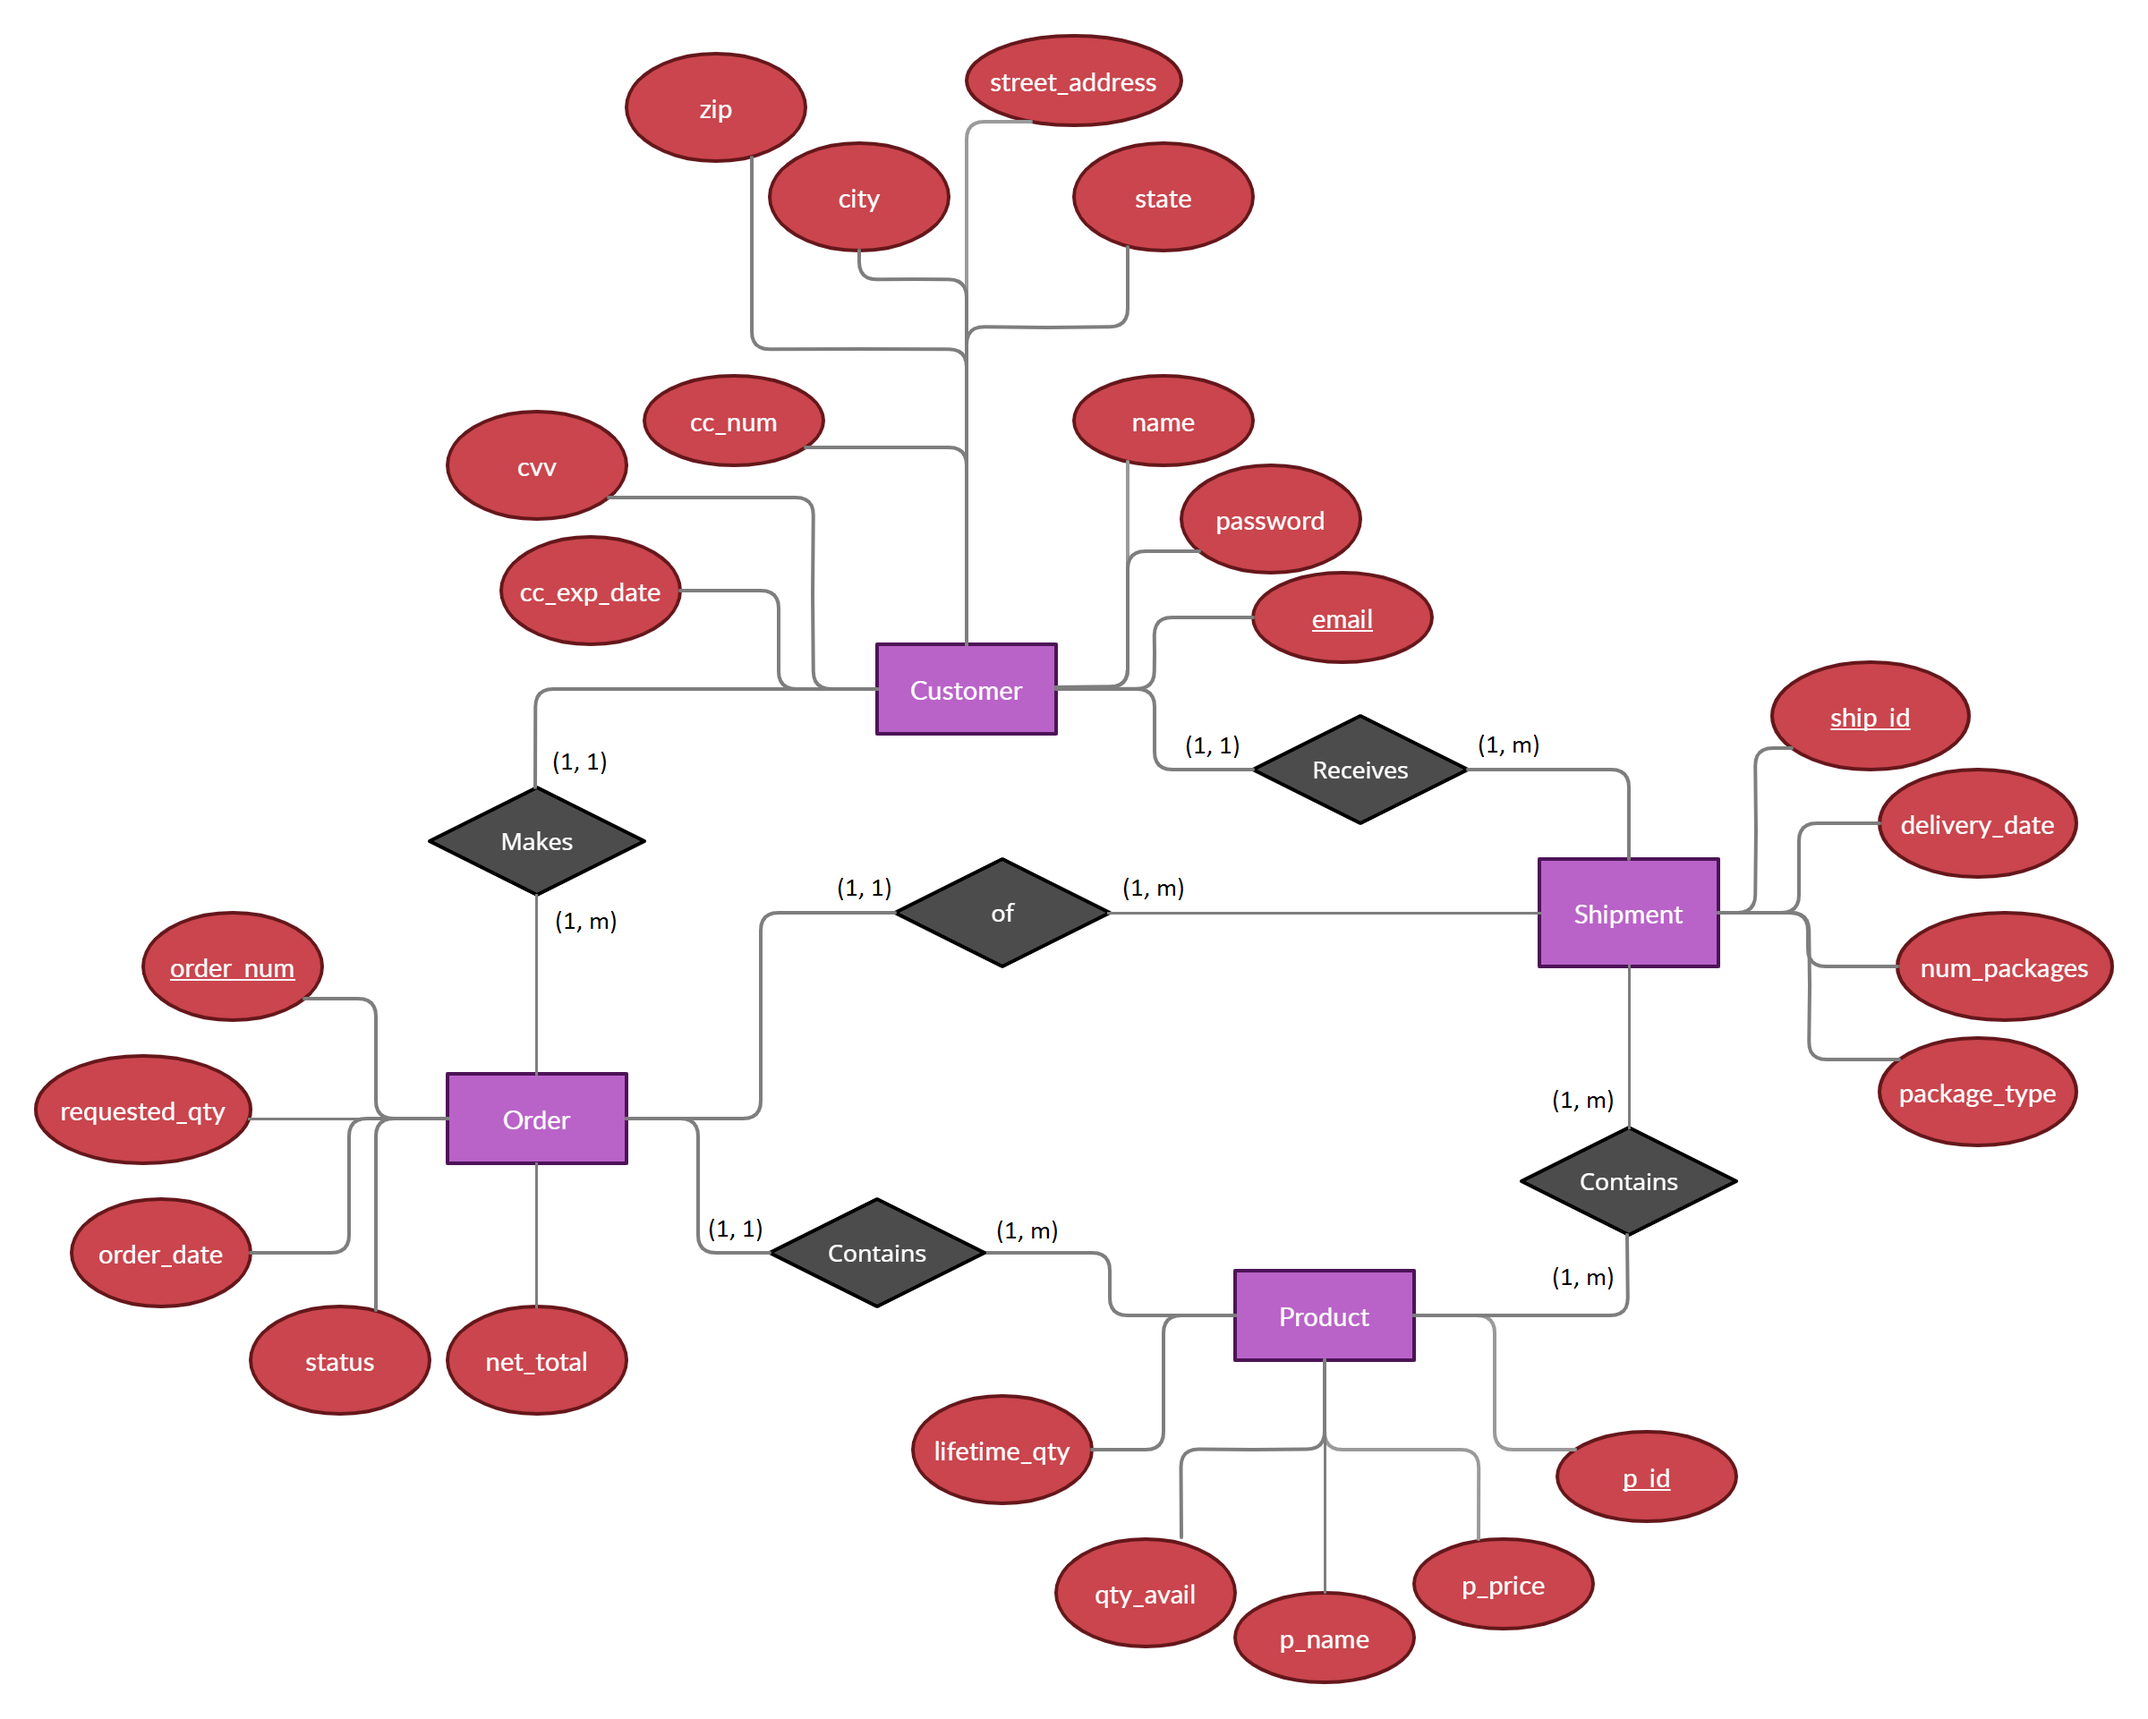
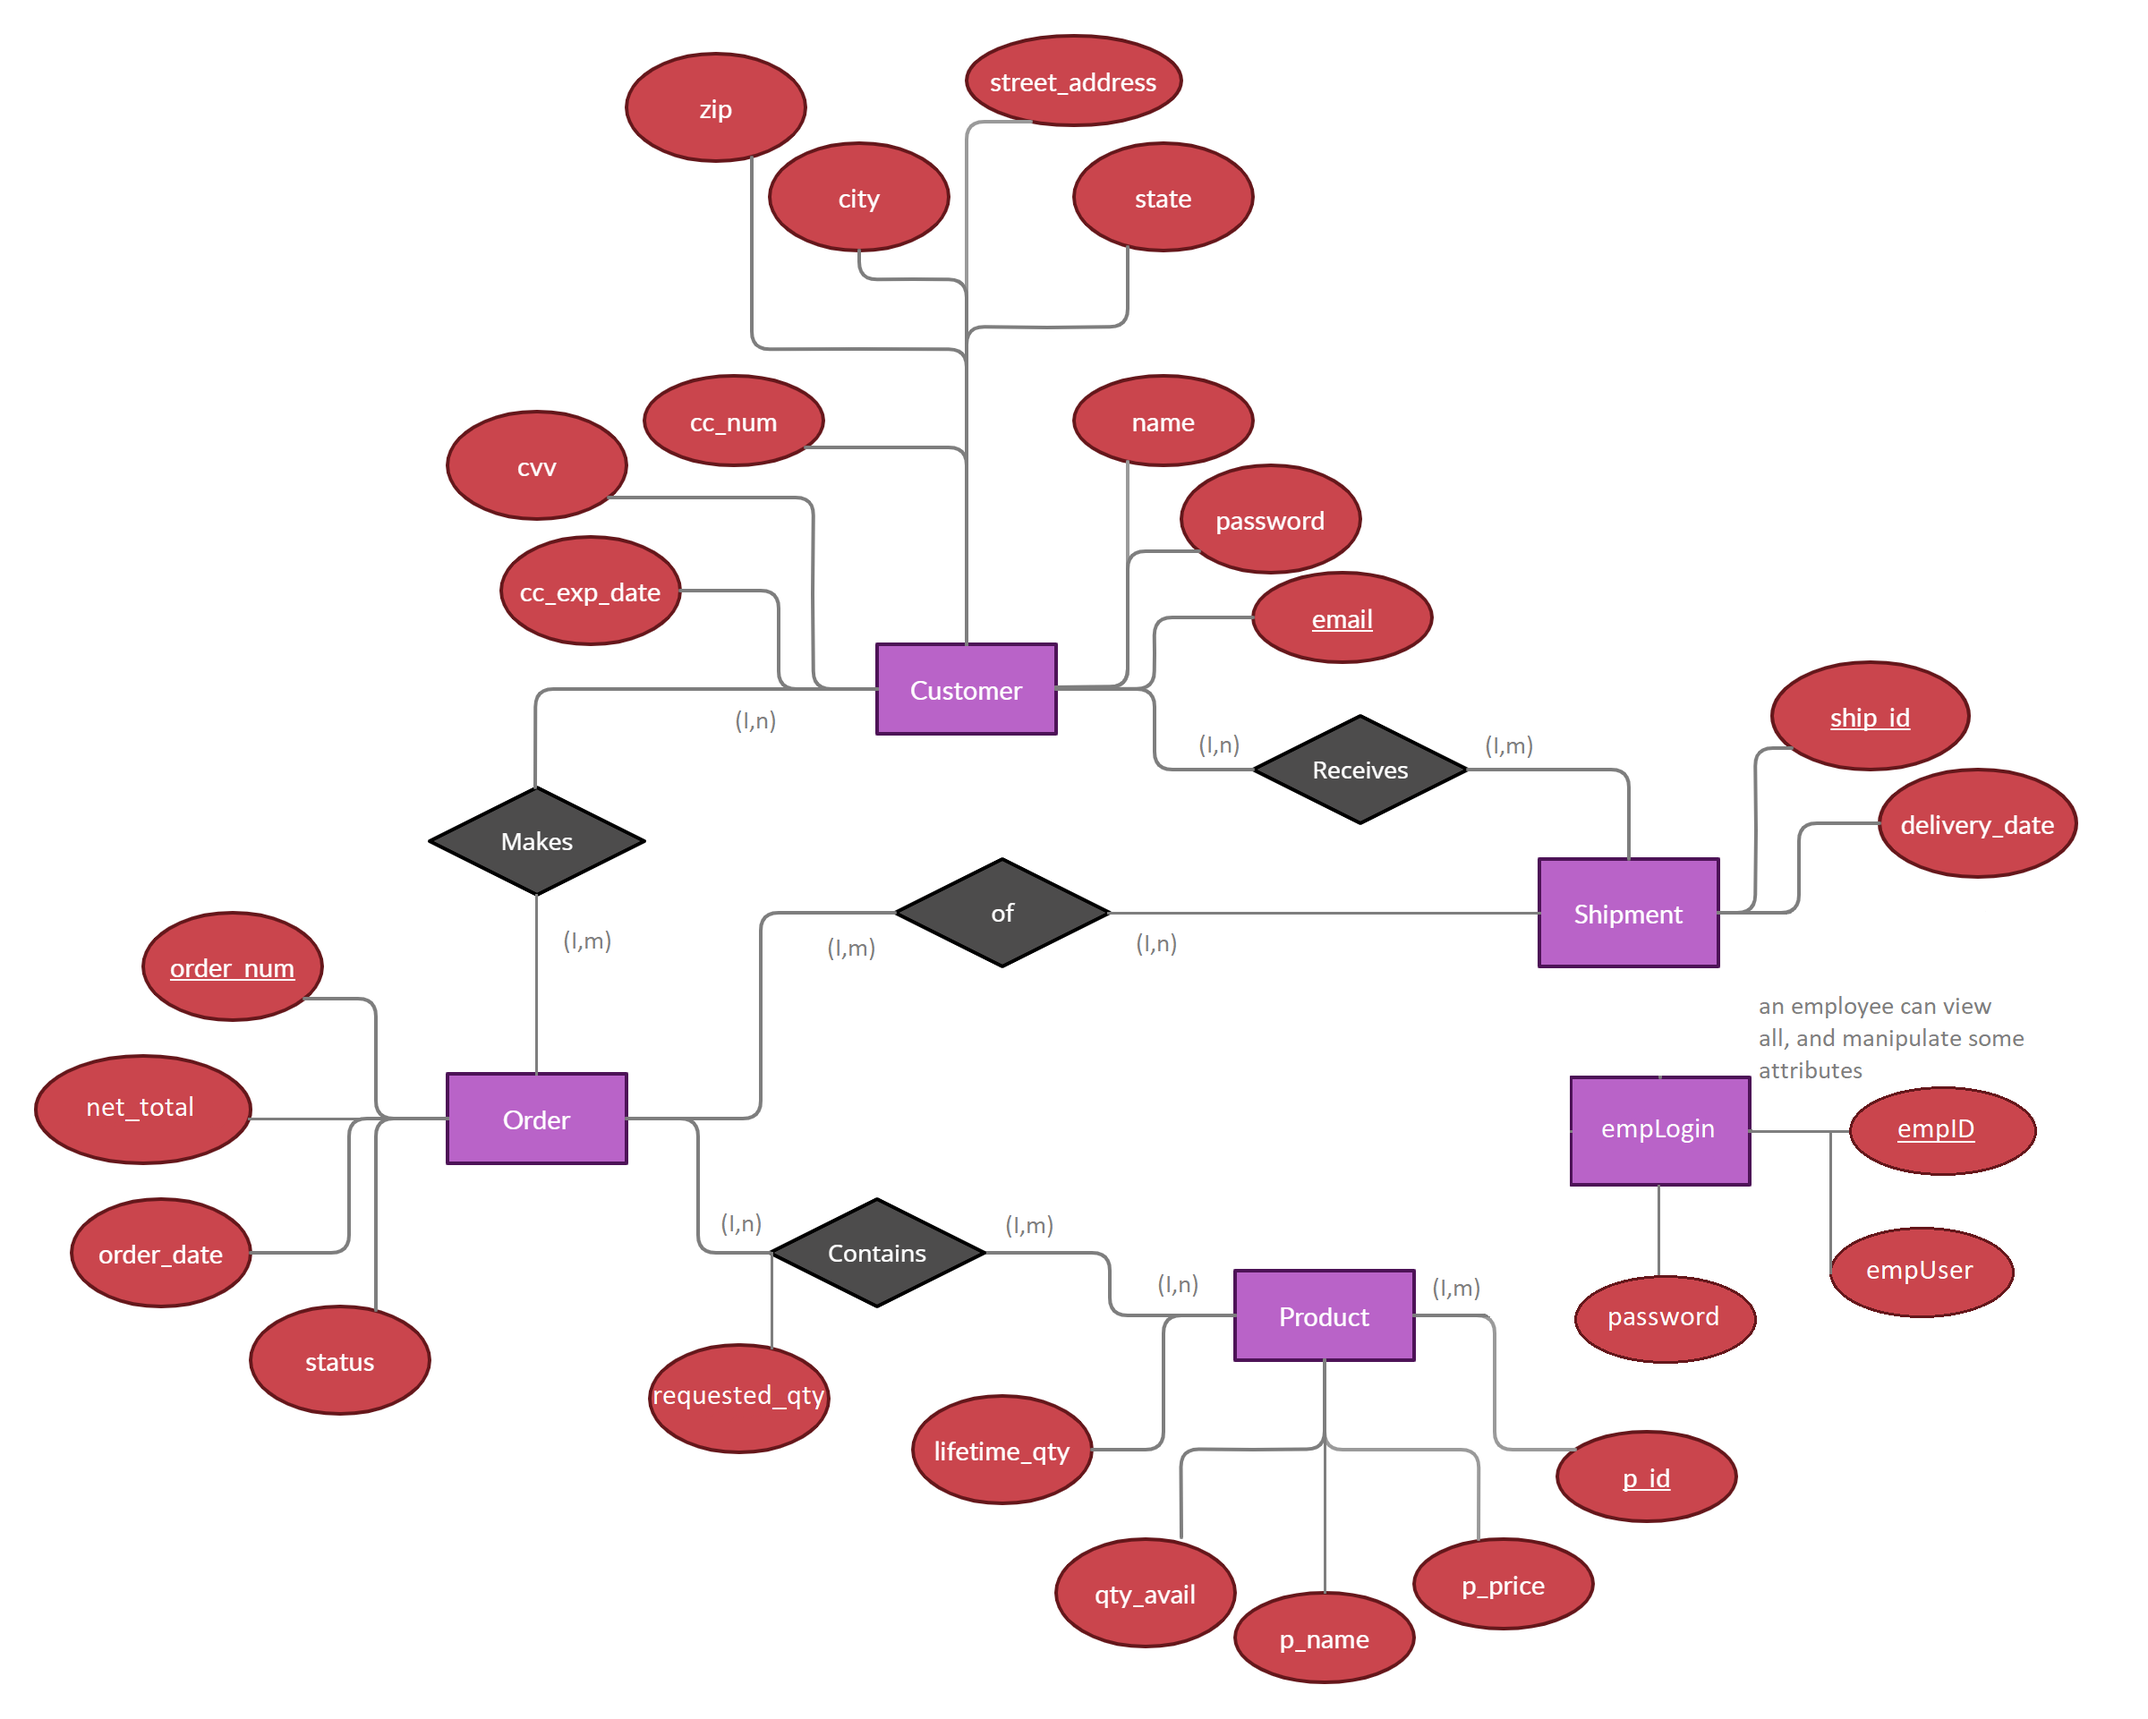
more functionality, along with order tracking

diff --git a/functions.php b/functions.php
@@ -1,28 +1,50 @@
 <?php
 function make_table($rows)
-    {
-        if (!empty($rows)) {
-            echo "<table border=1>";
+{
+    if (!empty($rows)) {
+        echo "<table border=1>";
+        echo "<tr>";
+        foreach ($rows[0] as $key => $value) {
+            if ($key == "P_Name") {
+                echo "<th>Product</th>";
+            }
+            else {
+                echo "<th>Price</th>";
+            }
+        }
+        echo "</tr>";
+        foreach ($rows as $row) {
             echo "<tr>";
-            foreach ($rows[0] as $key => $value) {
-                if ($key == "P_Name") {
-                    echo "<th>Product</th>";
-                }
-                else {
-                    echo "<th>Price</th>";
-                }
+            foreach ($row as $item) {
+                echo "<td>$item</td>";
             }
             echo "</tr>";
-            foreach ($rows as $row) {
-                echo "<tr>";
-                foreach ($row as $item) {
-                    echo "<td>$item</td>";
-                }
-                echo "</tr>";
-            }
-            echo "</table>";
-        } else {
-            echo "<br>Empty table";
         }
+        echo "</table>";
+    } else {
+        echo "<br>Empty table";
     }
+}
+
+function reg_table($rows)
+{
+    if (!empty($rows)) {
+        echo "<table border=1>";
+        echo "<tr>";
+        foreach ($rows[0] as $key => $value) {
+            echo "<th>$key</th>";
+        }
+        echo "</tr>";
+        foreach ($rows as $row) {
+            echo "<tr>";
+            foreach ($row as $item) {
+                echo "<td>$item</td>";
+            }
+            echo "</tr>";
+        }
+        echo "</table>";
+    } else {
+        echo "<br>Empty...";
+    }
+}
 ?>

diff --git a/order.php b/order.php
@@ -1,6 +1,7 @@
 <!DOCTYPE html><html><head><title>BT Orders</title></head><body>
 <?php
 include('login.php');
+include('functions.php');
 // login to MariaDB
 try { // if something goes wrong, an exception is thrown
     $dsn = "mysql:host=courses;dbname=z1860574";
@@ -8,11 +9,34 @@ try { // if something goes wrong, an exception is thrown
     
     #homepage
     echo "<h1>View your order here!</h1><br>";
-
-    echo $goToHome = "<a href='index.php'>Go to Home</a>";
 }
 catch(PDOexception $e) { // handle that exception
     echo "Connection to database failed: " . $e->getMessage();
 }
+
+
+
+    echo '<form method="post">';
+    echo 'Order Number:<input type="text" name="OrderNum"><br>';
+
+    echo '<br><input type="submit" value="Enter" /><br>';
+    echo "</form>";
+
+    # display the tracking info.
+    if ($_SERVER['REQUEST_METHOD'] === 'POST') {
+        $res = $pdo->query("SELECT * FROM Order_ where Order_Num = " . $_POST['OrderNum'] . ';');
+        $rows = $res->fetch(PDO::FETCH_ASSOC);
+        echo "<br>Current Status: ";
+        echo $rows['Order_Num'];
+        echo "<br>Current Status: ";
+        echo $rows['Order_Date'];
+        echo "<br>Current Status: ";
+        echo $rows['Status'];
+        echo "<br>Order Total: ";
+        echo $rows['Net_Total'];
+    }
+    echo '<br><br><form action="index.php">';
+    echo '<input type="submit" value="Home" />';
+    echo '</form>';
 ?>
 </body></html>

diff --git a/index.php b/index.php
@@ -1,5 +1,5 @@
-<!DOCTYPE html><html><head><title>Banana Tech Inc.</title></head><body>
-    
+<!DOCTYPE html><html><head><title>Banana Tech Inc.</title></head><body>  
+
 <!--login to mariadb-->
 <?php
     // hide credentials
@@ -16,10 +16,14 @@
     }
 ?>
 
+<form style=right:2px; action="emplogin.php">
+    <input type="submit" value="Employee Login" />
+</form>
+
 <!-- front end display -->
-<?php
-    echo "<h1> Welcome to Banana Threads Inc. </h1><br>";
-    echo "<h3> Please login: </h3>";
+    <?php
+    echo"<h1> Welcome to Banana Threads Inc. </h1><br>";
+    echo"<h3> Please login: </h3>";
 
     // debug
     //print_r($_POST);

diff --git a/cart.php b/cart.php
@@ -43,7 +43,6 @@ catch(PDOexception $e) { // handle that exception
     
     //echo "<a href=\"index.php\">Go back to homepage</a><br>";
     //echo "<h1>View your cart here!</h1><br>";
-    
     }
 ?> 
 
